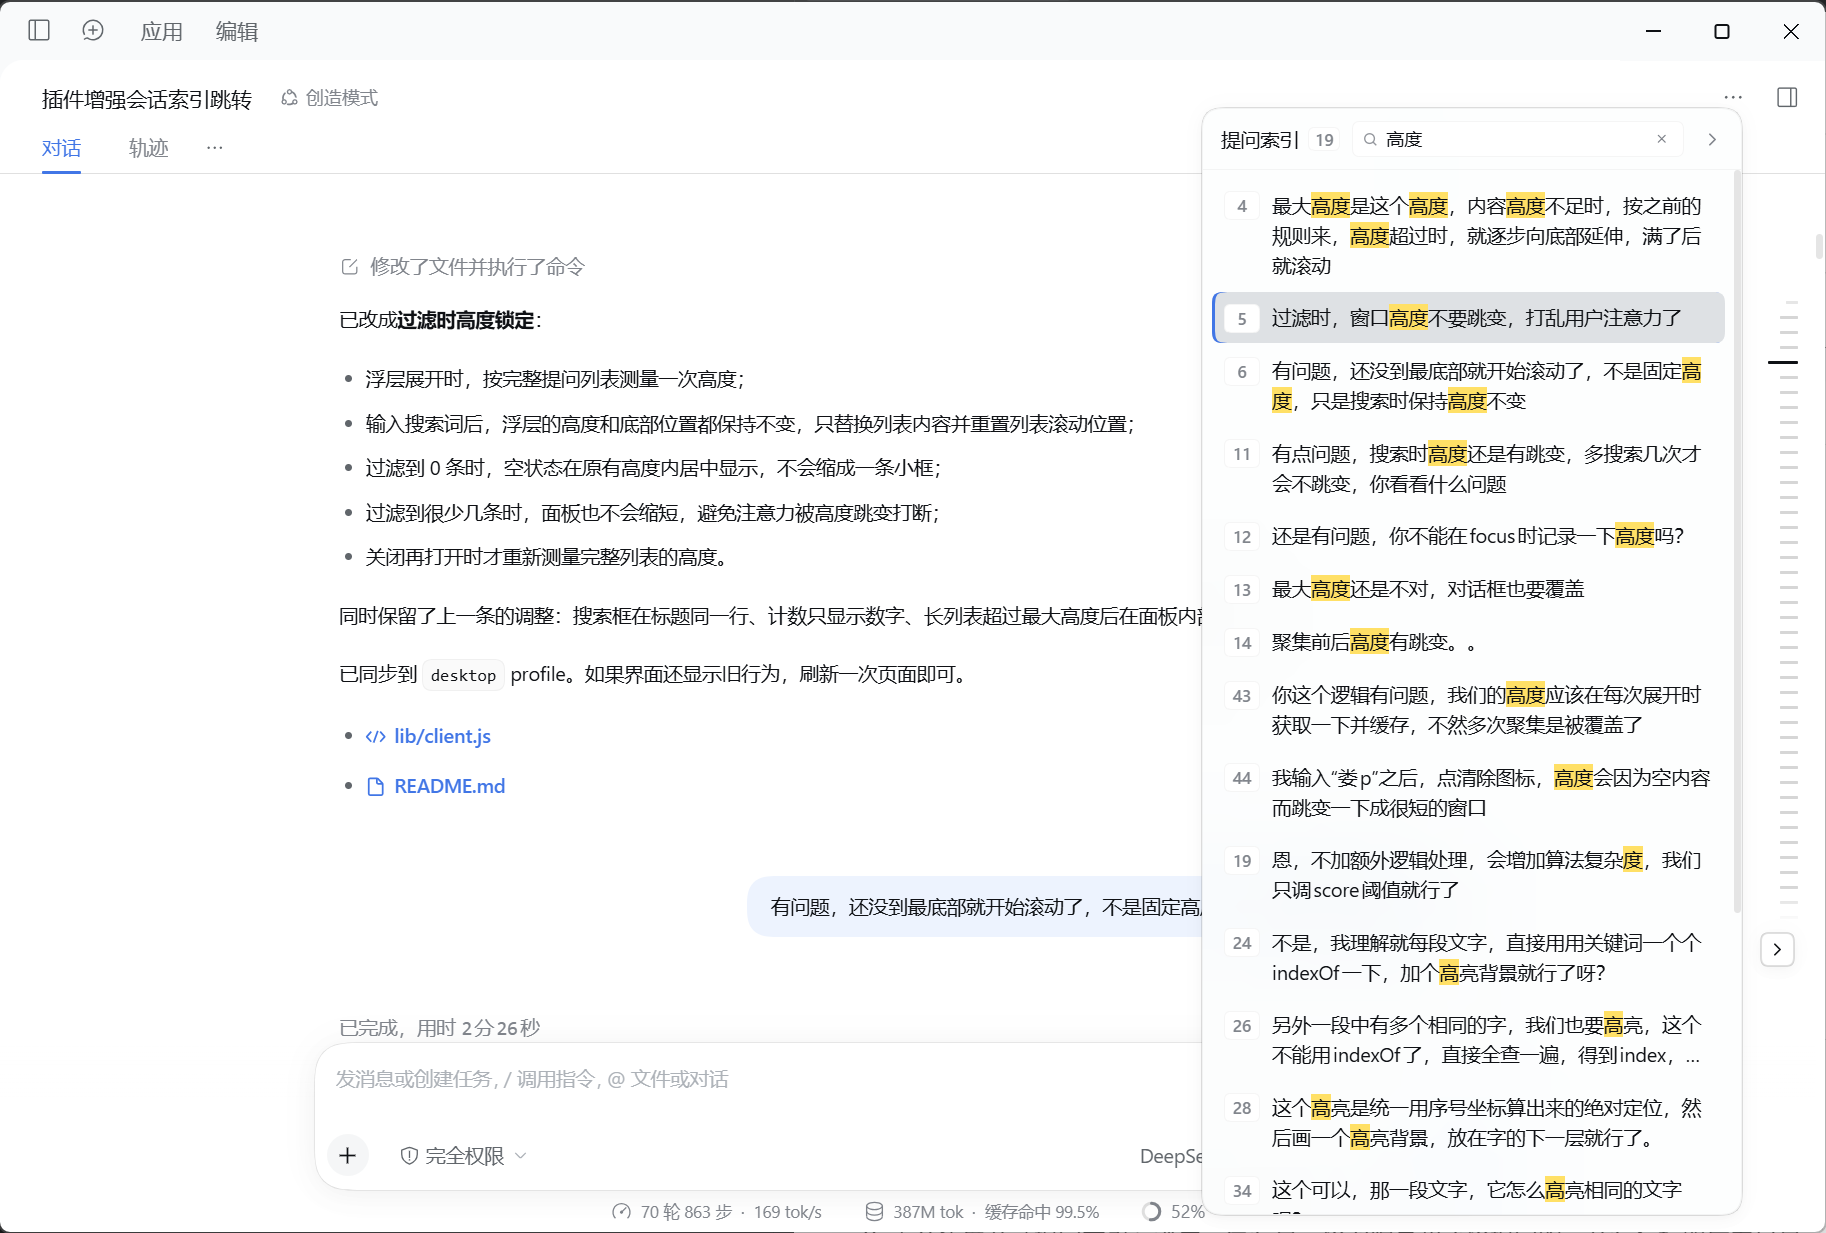
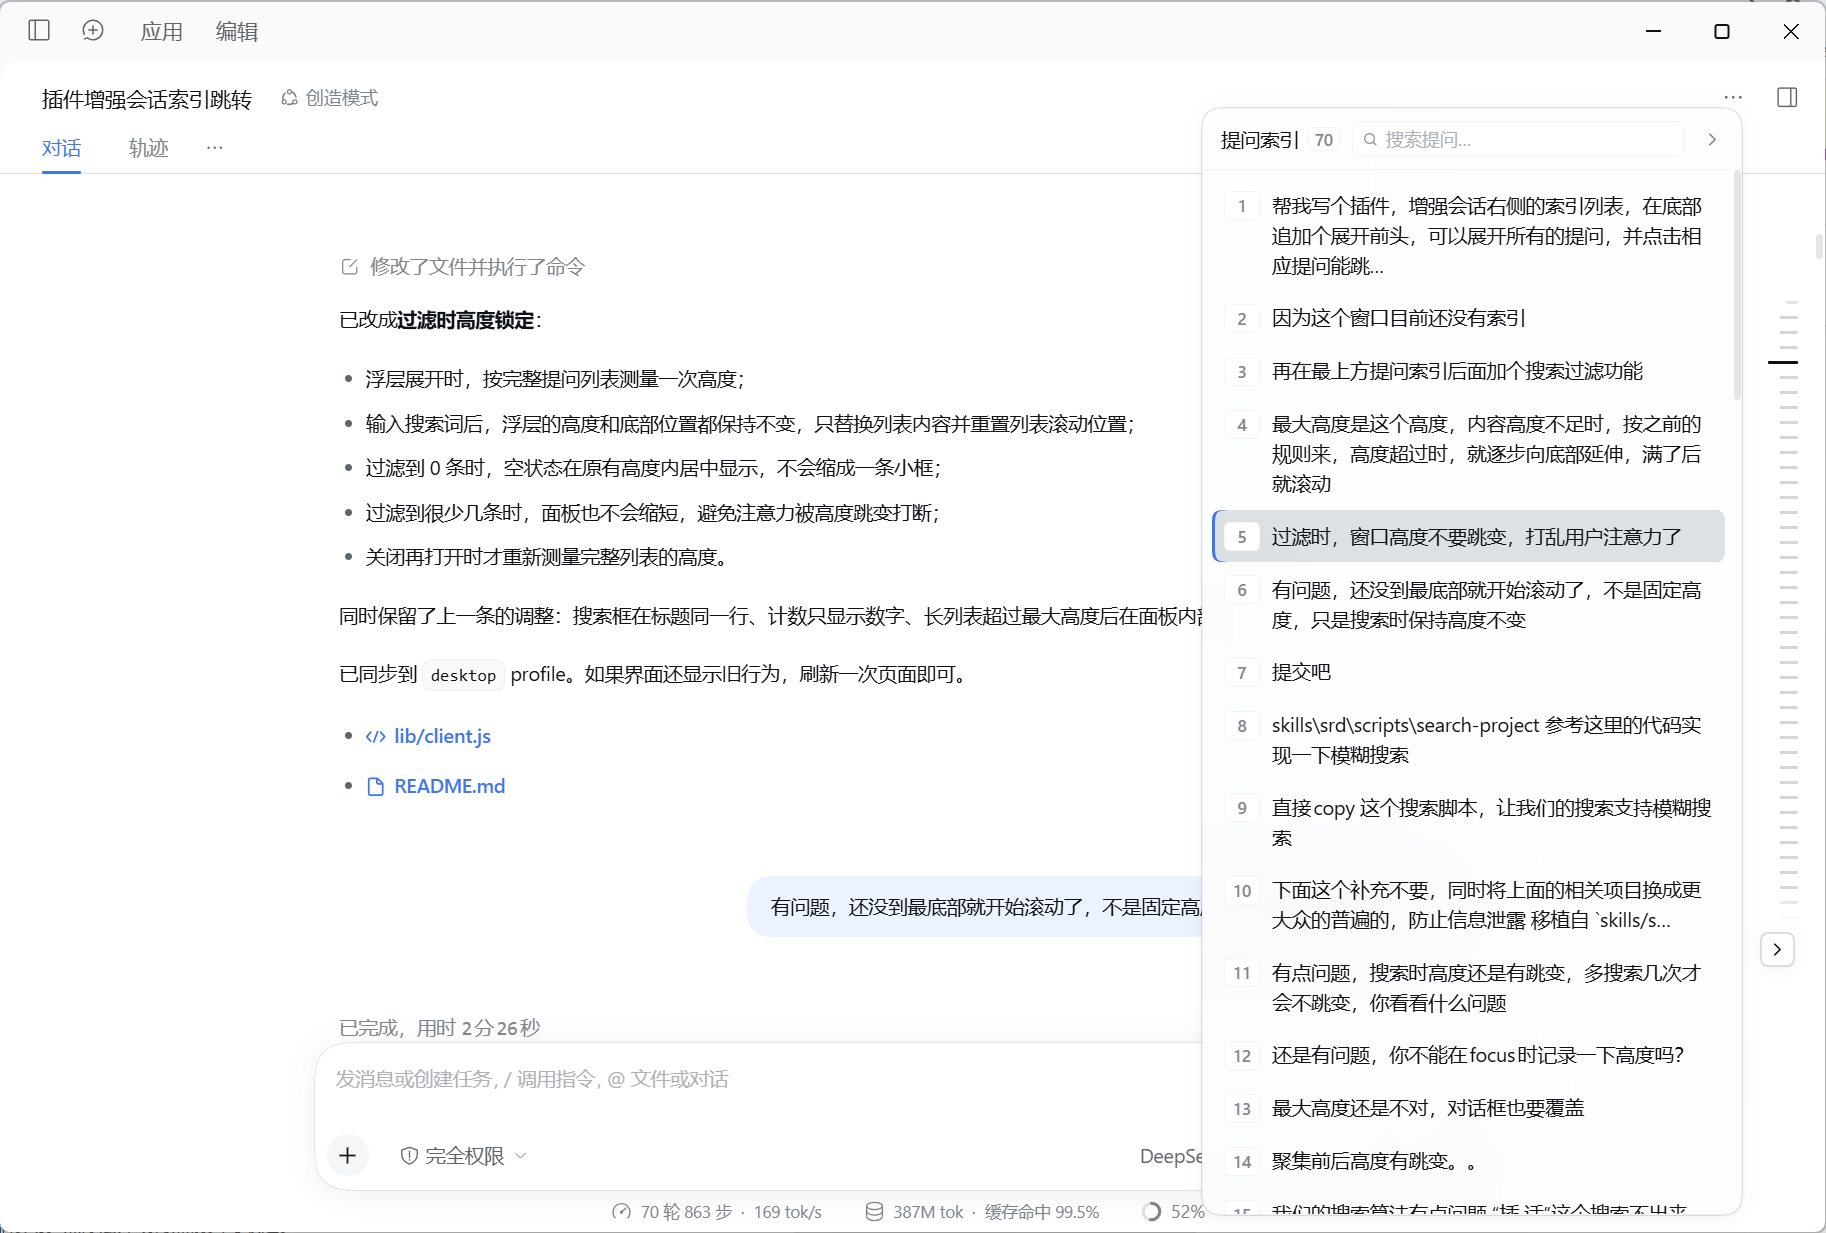
doc: 添加界面预览图片

diff --git a/README.md b/README.md
@@ -9,7 +9,9 @@
 
 它只增强内置索引，不替换索引条本身：原来的小刻度、悬浮预览、当前轮高亮、历史回补逻辑都保持原样。
 
-![dsh-plugin-turn-index-preview](./imgs/dsh-plugin-turn-index-preview.png)
+![preview](./imgs/dsh-plugin-turn-index-preview.png)
+
+![preview-search](./imgs/dsh-plugin-turn-index-preview-search.png)
 
 ## 交互
 
